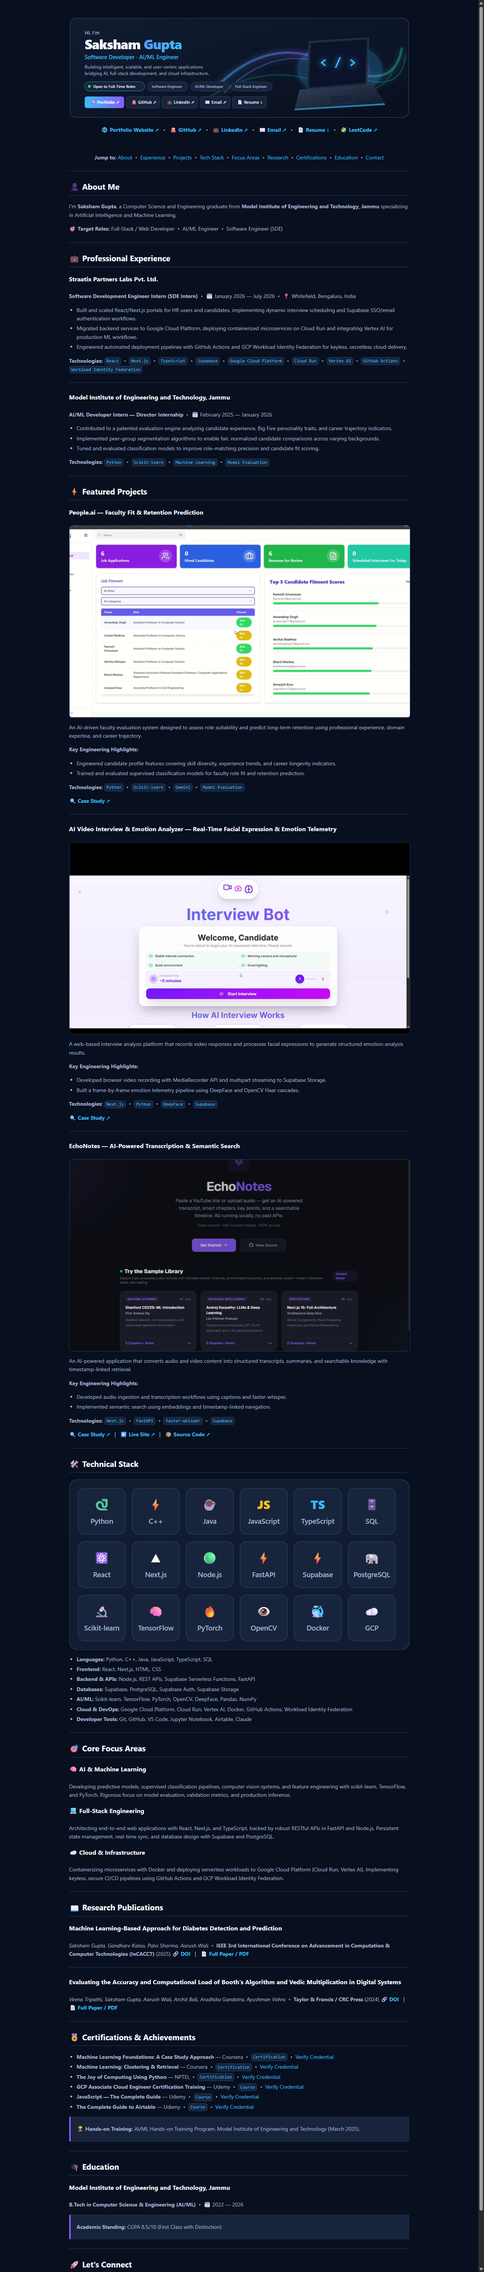
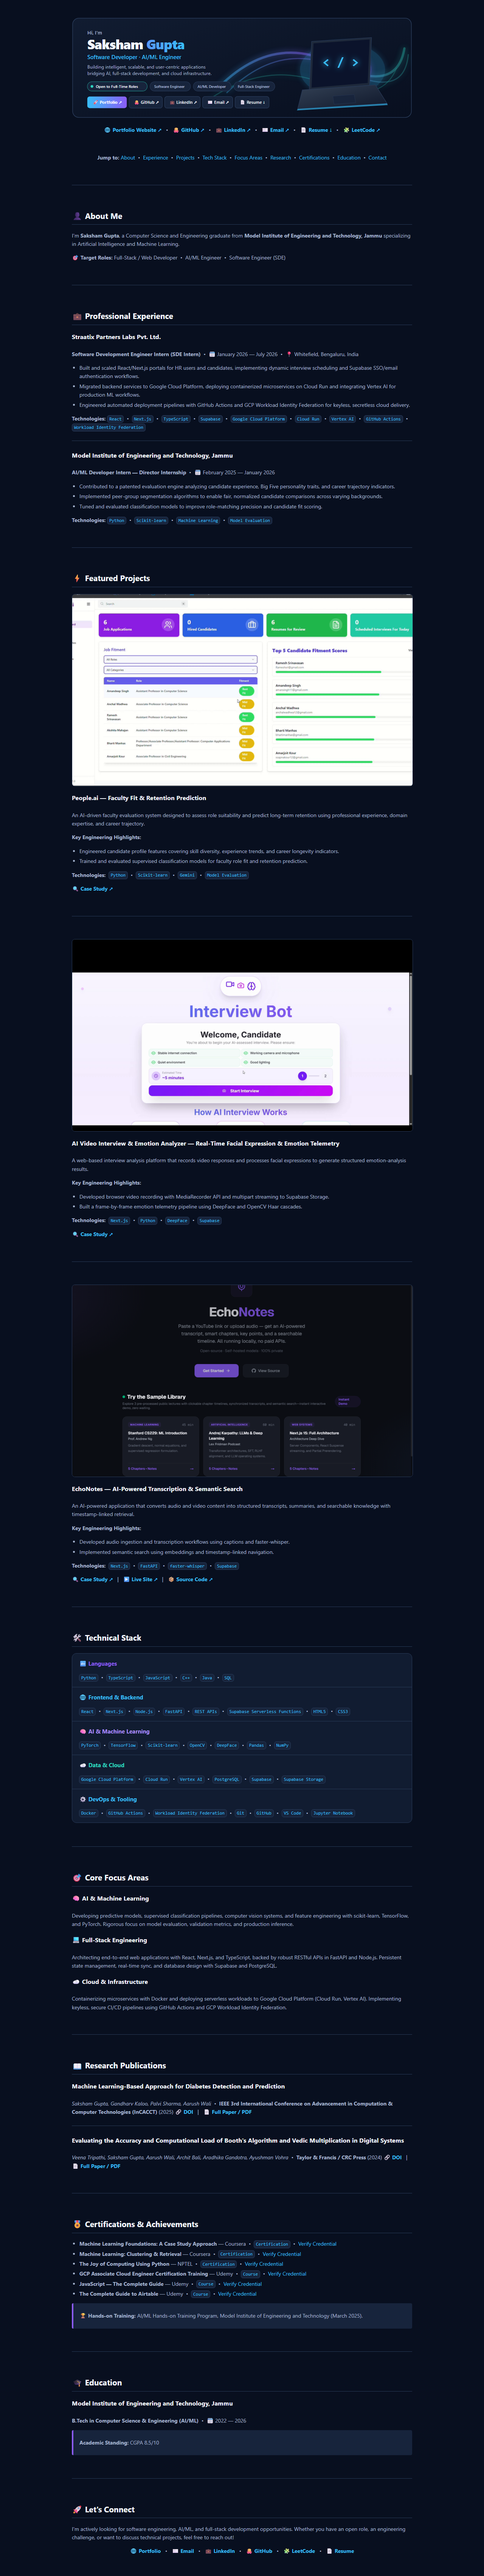
refactor(readme): cohesive categorized tech showcase and editorial spacing

diff --git a/README.md b/README.md
@@ -25,7 +25,11 @@
 
 </div>
 
+<br>
+
 ---
+
+<br>
 
 ## 👤 About Me <a id="about"></a>
 
@@ -36,7 +40,11 @@ I'm **Saksham Gupta**, a Computer Science and Engineering graduate from **Model 
 **🎯 Target Roles:** Full-Stack / Web Developer &nbsp;•&nbsp; AI/ML Engineer &nbsp;•&nbsp; Software Engineer (SDE)
 
 
+<br>
+
 ---
+
+<br>
 
 ## 💼 Professional Experience <a id="experience"></a>
 
@@ -60,17 +68,23 @@ I'm **Saksham Gupta**, a Computer Science and Engineering graduate from **Model 
 
 **Technologies:** <code>Python</code> &nbsp;•&nbsp; <code>Scikit-learn</code> &nbsp;•&nbsp; <code>Machine Learning</code> &nbsp;•&nbsp; <code>Model Evaluation</code>
 
+<br>
+
 ---
+
+<br>
 
 ## ⚡ Featured Projects <a id="projects"></a>
 
-### People.ai — Faculty Fit & Retention Prediction <a id="people-ai"></a>
-
-<p align="center">
+<a id="people-ai"></a>
+<p align="center" style="margin-bottom: 16px;">
   <img src="assets/projects/people-ai.png" alt="People.ai" width="100%" style="border-radius: 8px; border: 1px solid #293B59; display: block;">
 </p>
 
-An AI-driven faculty evaluation system designed to assess role suitability and predict long-term retention using professional experience, domain expertise, and career trajectory.
+### People.ai — Faculty Fit & Retention Prediction
+<p style="margin: 8px 0 12px 0; font-size: 14px; line-height: 1.6; color: #A5B4CF;">
+  An AI-driven faculty evaluation system designed to assess role suitability and predict long-term retention using professional experience, domain expertise, and career trajectory.
+</p>
 
 **Key Engineering Highlights:**
 
@@ -79,21 +93,29 @@ An AI-driven faculty evaluation system designed to assess role suitability and p
 - Trained and evaluated supervised classification models for faculty role fit and retention prediction.
 
 
-**Technologies:** <code>Python</code> &nbsp;•&nbsp; <code>Scikit-learn</code> &nbsp;•&nbsp; <code>Gemini</code> &nbsp;•&nbsp; <code>Model Evaluation</code>
-<p style="margin-top: 10px; margin-bottom: 0;">
+<p style="margin: 12px 0 8px 0;">
+  <b>Technologies:</b> &nbsp;<code>Python</code> &nbsp;•&nbsp; <code>Scikit-learn</code> &nbsp;•&nbsp; <code>Gemini</code> &nbsp;•&nbsp; <code>Model Evaluation</code></p>
+
+<p style="margin-top: 14px; margin-bottom: 0;">
 <a href="https://sakshamsgupta-portfolio.vercel.app/projects/people-ai-faculty-fit">🔍 <b>Case Study ↗</b></a>
 </p>
 
 
+<br>
+
 ---
 
-### AI Video Interview & Emotion Analyzer — Real-Time Facial Expression & Emotion Telemetry <a id="ai-video-interview-emotion-analyzer"></a>
+<br>
 
-<p align="center">
+<a id="ai-video-interview-emotion-analyzer"></a>
+<p align="center" style="margin-bottom: 16px;">
   <img src="assets/projects/interview-analyzer.png" alt="AI Video Interview & Emotion Analyzer" width="100%" style="border-radius: 8px; border: 1px solid #293B59; display: block;">
 </p>
 
-A web-based interview analysis platform that records video responses and processes facial expressions to generate structured emotion-analysis results.
+### AI Video Interview & Emotion Analyzer — Real-Time Facial Expression & Emotion Telemetry
+<p style="margin: 8px 0 12px 0; font-size: 14px; line-height: 1.6; color: #A5B4CF;">
+  A web-based interview analysis platform that records video responses and processes facial expressions to generate structured emotion-analysis results.
+</p>
 
 **Key Engineering Highlights:**
 
@@ -102,21 +124,29 @@ A web-based interview analysis platform that records video responses and process
 - Built a frame-by-frame emotion telemetry pipeline using DeepFace and OpenCV Haar cascades.
 
 
-**Technologies:** <code>Next.js</code> &nbsp;•&nbsp; <code>Python</code> &nbsp;•&nbsp; <code>DeepFace</code> &nbsp;•&nbsp; <code>Supabase</code>
-<p style="margin-top: 10px; margin-bottom: 0;">
+<p style="margin: 12px 0 8px 0;">
+  <b>Technologies:</b> &nbsp;<code>Next.js</code> &nbsp;•&nbsp; <code>Python</code> &nbsp;•&nbsp; <code>DeepFace</code> &nbsp;•&nbsp; <code>Supabase</code></p>
+
+<p style="margin-top: 14px; margin-bottom: 0;">
 <a href="https://sakshamsgupta-portfolio.vercel.app/projects/ai-video-interview-emotion-analyzer">🔍 <b>Case Study ↗</b></a>
 </p>
 
 
+<br>
+
 ---
 
-### EchoNotes — AI-Powered Transcription & Semantic Search <a id="echonotes"></a>
+<br>
 
-<p align="center">
+<a id="echonotes"></a>
+<p align="center" style="margin-bottom: 16px;">
   <img src="assets/projects/echonotes.png" alt="EchoNotes" width="100%" style="border-radius: 8px; border: 1px solid #293B59; display: block;">
 </p>
 
-An AI-powered application that converts audio and video content into structured transcripts, summaries, and searchable knowledge with timestamp-linked retrieval.
+### EchoNotes — AI-Powered Transcription & Semantic Search
+<p style="margin: 8px 0 12px 0; font-size: 14px; line-height: 1.6; color: #A5B4CF;">
+  An AI-powered application that converts audio and video content into structured transcripts, summaries, and searchable knowledge with timestamp-linked retrieval.
+</p>
 
 **Key Engineering Highlights:**
 
@@ -125,37 +155,66 @@ An AI-powered application that converts audio and video content into structured 
 - Implemented semantic search using embeddings and timestamp-linked navigation.
 
 
-**Technologies:** <code>Next.js</code> &nbsp;•&nbsp; <code>FastAPI</code> &nbsp;•&nbsp; <code>faster-whisper</code> &nbsp;•&nbsp; <code>Supabase</code>
-<p style="margin-top: 10px; margin-bottom: 0;">
+<p style="margin: 12px 0 8px 0;">
+  <b>Technologies:</b> &nbsp;<code>Next.js</code> &nbsp;•&nbsp; <code>FastAPI</code> &nbsp;•&nbsp; <code>faster-whisper</code> &nbsp;•&nbsp; <code>Supabase</code></p>
+
+<p style="margin-top: 14px; margin-bottom: 0;">
 <a href="https://sakshamsgupta-portfolio.vercel.app/projects/echonotes">🔍 <b>Case Study ↗</b></a> &nbsp;&nbsp;|&nbsp;&nbsp; <a href="https://youtube-video-summarizer-sage.vercel.app/">▶ <b>Live Site ↗</b></a> &nbsp;&nbsp;|&nbsp;&nbsp; <a href="https://github.com/sakshamgupta04/Youtube-Video-Summarizer">📦 <b>Source Code ↗</b></a>
 </p>
 
 
 
 
+<br>
+
 ---
+
+<br>
 
 ## 🛠 Technical Stack <a id="skills"></a>
 
-<picture>
-  <source media="(prefers-color-scheme: dark)" srcset="assets/tech-grid-dark.svg">
-  <source media="(prefers-color-scheme: light)" srcset="assets/tech-grid-light.svg">
-  <img alt="Technical Stack" src="assets/tech-grid-dark.svg" width="100%" style="display: block; margin-bottom: 12px;">
-</picture>
 
 
 
 
+<table width="100%">
+  <tr>
+    <td style="padding: 14px 18px; border: 0;">
+      <h3 style="margin: 0 0 8px 0; color: #8B5CF6; font-size: 15px;">🔤 Languages</h3>
+      <code>Python</code> &nbsp;•&nbsp; <code>TypeScript</code> &nbsp;•&nbsp; <code>JavaScript</code> &nbsp;•&nbsp; <code>C++</code> &nbsp;•&nbsp; <code>Java</code> &nbsp;•&nbsp; <code>SQL</code>
+    </td>
+  </tr>
+  <tr>
+    <td style="padding: 14px 18px; border: 0; border-top: 1px solid #293B59;">
+      <h3 style="margin: 0 0 8px 0; color: #38BDF8; font-size: 15px;">🌐 Frontend &amp; Backend</h3>
+      <code>React</code> &nbsp;•&nbsp; <code>Next.js</code> &nbsp;•&nbsp; <code>Node.js</code> &nbsp;•&nbsp; <code>FastAPI</code> &nbsp;•&nbsp; <code>REST APIs</code> &nbsp;•&nbsp; <code>Supabase Serverless Functions</code> &nbsp;•&nbsp; <code>HTML5</code> &nbsp;•&nbsp; <code>CSS3</code>
+    </td>
+  </tr>
+  <tr>
+    <td style="padding: 14px 18px; border: 0; border-top: 1px solid #293B59;">
+      <h3 style="margin: 0 0 8px 0; color: #A78BFA; font-size: 15px;">🧠 AI &amp; Machine Learning</h3>
+      <code>PyTorch</code> &nbsp;•&nbsp; <code>TensorFlow</code> &nbsp;•&nbsp; <code>Scikit-learn</code> &nbsp;•&nbsp; <code>OpenCV</code> &nbsp;•&nbsp; <code>DeepFace</code> &nbsp;•&nbsp; <code>Pandas</code> &nbsp;•&nbsp; <code>NumPy</code>
+    </td>
+  </tr>
+  <tr>
+    <td style="padding: 14px 18px; border: 0; border-top: 1px solid #293B59;">
+      <h3 style="margin: 0 0 8px 0; color: #2DD4BF; font-size: 15px;">☁ Data &amp; Cloud</h3>
+      <code>Google Cloud Platform</code> &nbsp;•&nbsp; <code>Cloud Run</code> &nbsp;•&nbsp; <code>Vertex AI</code> &nbsp;•&nbsp; <code>PostgreSQL</code> &nbsp;•&nbsp; <code>Supabase</code> &nbsp;•&nbsp; <code>Supabase Storage</code>
+    </td>
+  </tr>
+  <tr>
+    <td style="padding: 14px 18px; border: 0; border-top: 1px solid #293B59;">
+      <h3 style="margin: 0 0 8px 0; color: #38BDF8; font-size: 15px;">⚙ DevOps &amp; Tooling</h3>
+      <code>Docker</code> &nbsp;•&nbsp; <code>GitHub Actions</code> &nbsp;•&nbsp; <code>Workload Identity Federation</code> &nbsp;•&nbsp; <code>Git</code> &nbsp;•&nbsp; <code>GitHub</code> &nbsp;•&nbsp; <code>VS Code</code> &nbsp;•&nbsp; <code>Jupyter Notebook</code>
+    </td>
+  </tr>
+</table>
 
-- **Languages:** Python, C++, Java, JavaScript, TypeScript, SQL
-- **Frontend:** React, Next.js, HTML, CSS
-- **Backend & APIs:** Node.js, REST APIs, Supabase Serverless Functions, FastAPI
-- **Databases:** Supabase, PostgreSQL, Supabase Auth, Supabase Storage
-- **AI/ML:** Scikit-learn, TensorFlow, PyTorch, OpenCV, DeepFace, Pandas, NumPy
-- **Cloud & DevOps:** Google Cloud Platform, Cloud Run, Vertex AI, Docker, GitHub Actions, Workload Identity Federation
-- **Developer Tools:** Git, GitHub, VS Code, Jupyter Notebook, Airtable, Claude
+<br>
 
 ---
+
+<br>
 
 ## 🎯 Core Focus Areas <a id="expertise"></a>
 
@@ -171,7 +230,11 @@ Containerizing microservices with Docker and deploying serverless workloads to G
 
 
 
+<br>
+
 ---
+
+<br>
 
 ## 📖 Research Publications <a id="research"></a>
 
@@ -189,7 +252,11 @@ Containerizing microservices with Docker and deploying serverless workloads to G
 
 
 
+<br>
+
 ---
+
+<br>
 
 ## 🎖 Certifications &amp; Achievements <a id="certifications"></a>
 
@@ -203,16 +270,24 @@ Containerizing microservices with Docker and deploying serverless workloads to G
 > 🏆 **Hands-on Training:** AI/ML Hands-on Training Program, Model Institute of Engineering and Technology (March 2025).
 
 
+<br>
+
 ---
+
+<br>
 
 ## 🎓 Education <a id="education"></a>
 
 ### Model Institute of Engineering and Technology, Jammu
 **B.Tech in Computer Science & Engineering (AI/ML)** &nbsp;•&nbsp; 🗓 2022 — 2026
-> **Academic Standing:** CGPA 8.5/10 (First Class with Distinction)
+> **Academic Standing:** CGPA 8.5/10
 
+
+<br>
 
 ---
+
+<br>
 
 ## 🚀 Let's Connect <a id="contact"></a>
 
